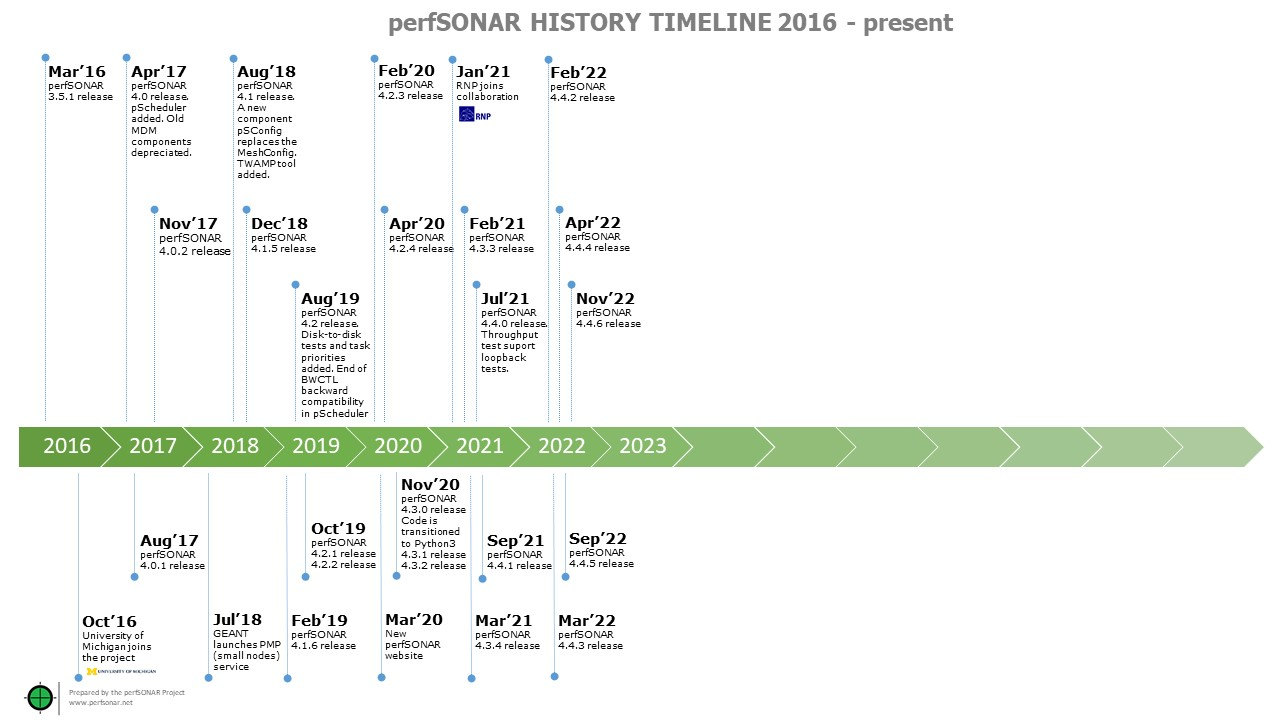
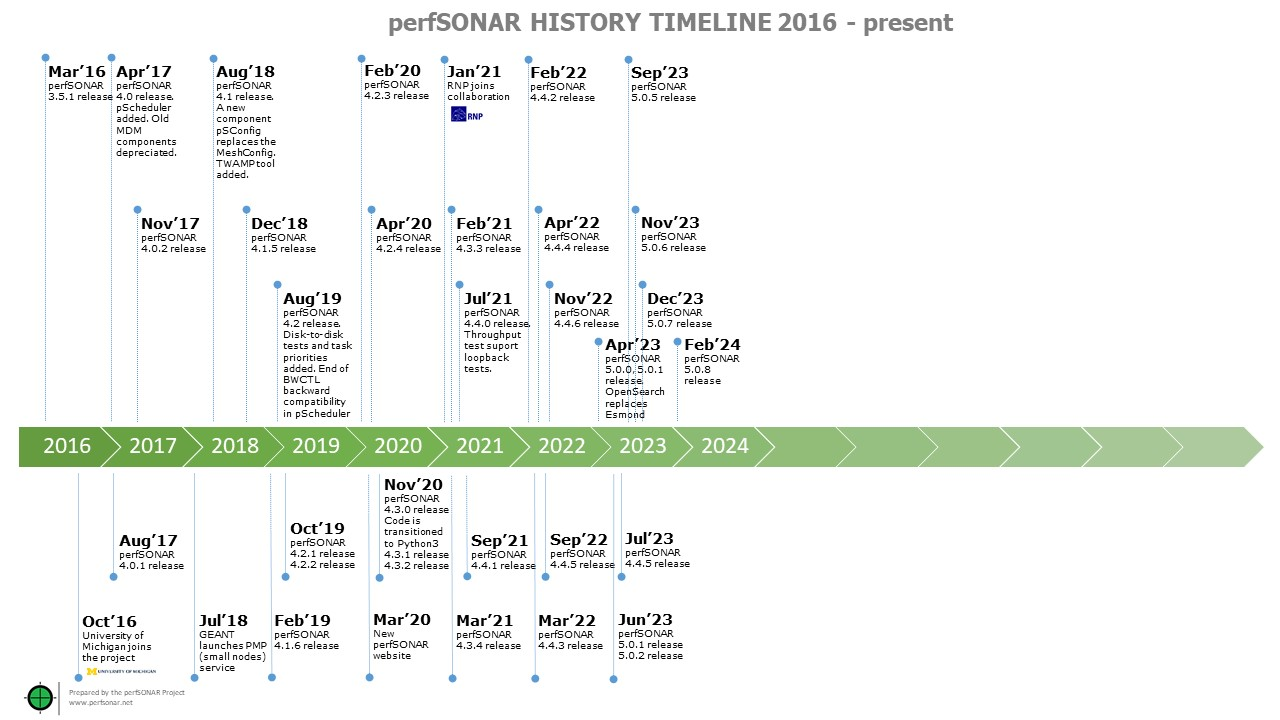
Closes #247
History timeline updated
Changed YouTube link to shortname in the left menu
Updated Grafana screenshot from LS dashboard, updated date under screenshot
Updated link to LS dashboard

diff --git a/pages/gtk/whouses.md b/pages/gtk/whouses.md
@@ -85,11 +85,11 @@ sciences.
 
 
 perfSONAR tools are deployed on over 2,000 [registered
-hosts](http://stats.es.net/ServicesDirectory) in over 300 top-level
+hosts](https://stats.perfsonar.net/) in over 300 top-level
 domains and more than 1,000 organizations around the world.  Based on
 discussions with the user base, it is believed that there are at least
 that many private, unregistered perfSONAR installations.
 
 {% include image.html file="gtk/whouses/ps-worldwide.png"
    alt="perfSONAR worldwide installations"
-   caption="Image Updated February, 2020" %}
+   caption="Image Updated March, 2024" %}
